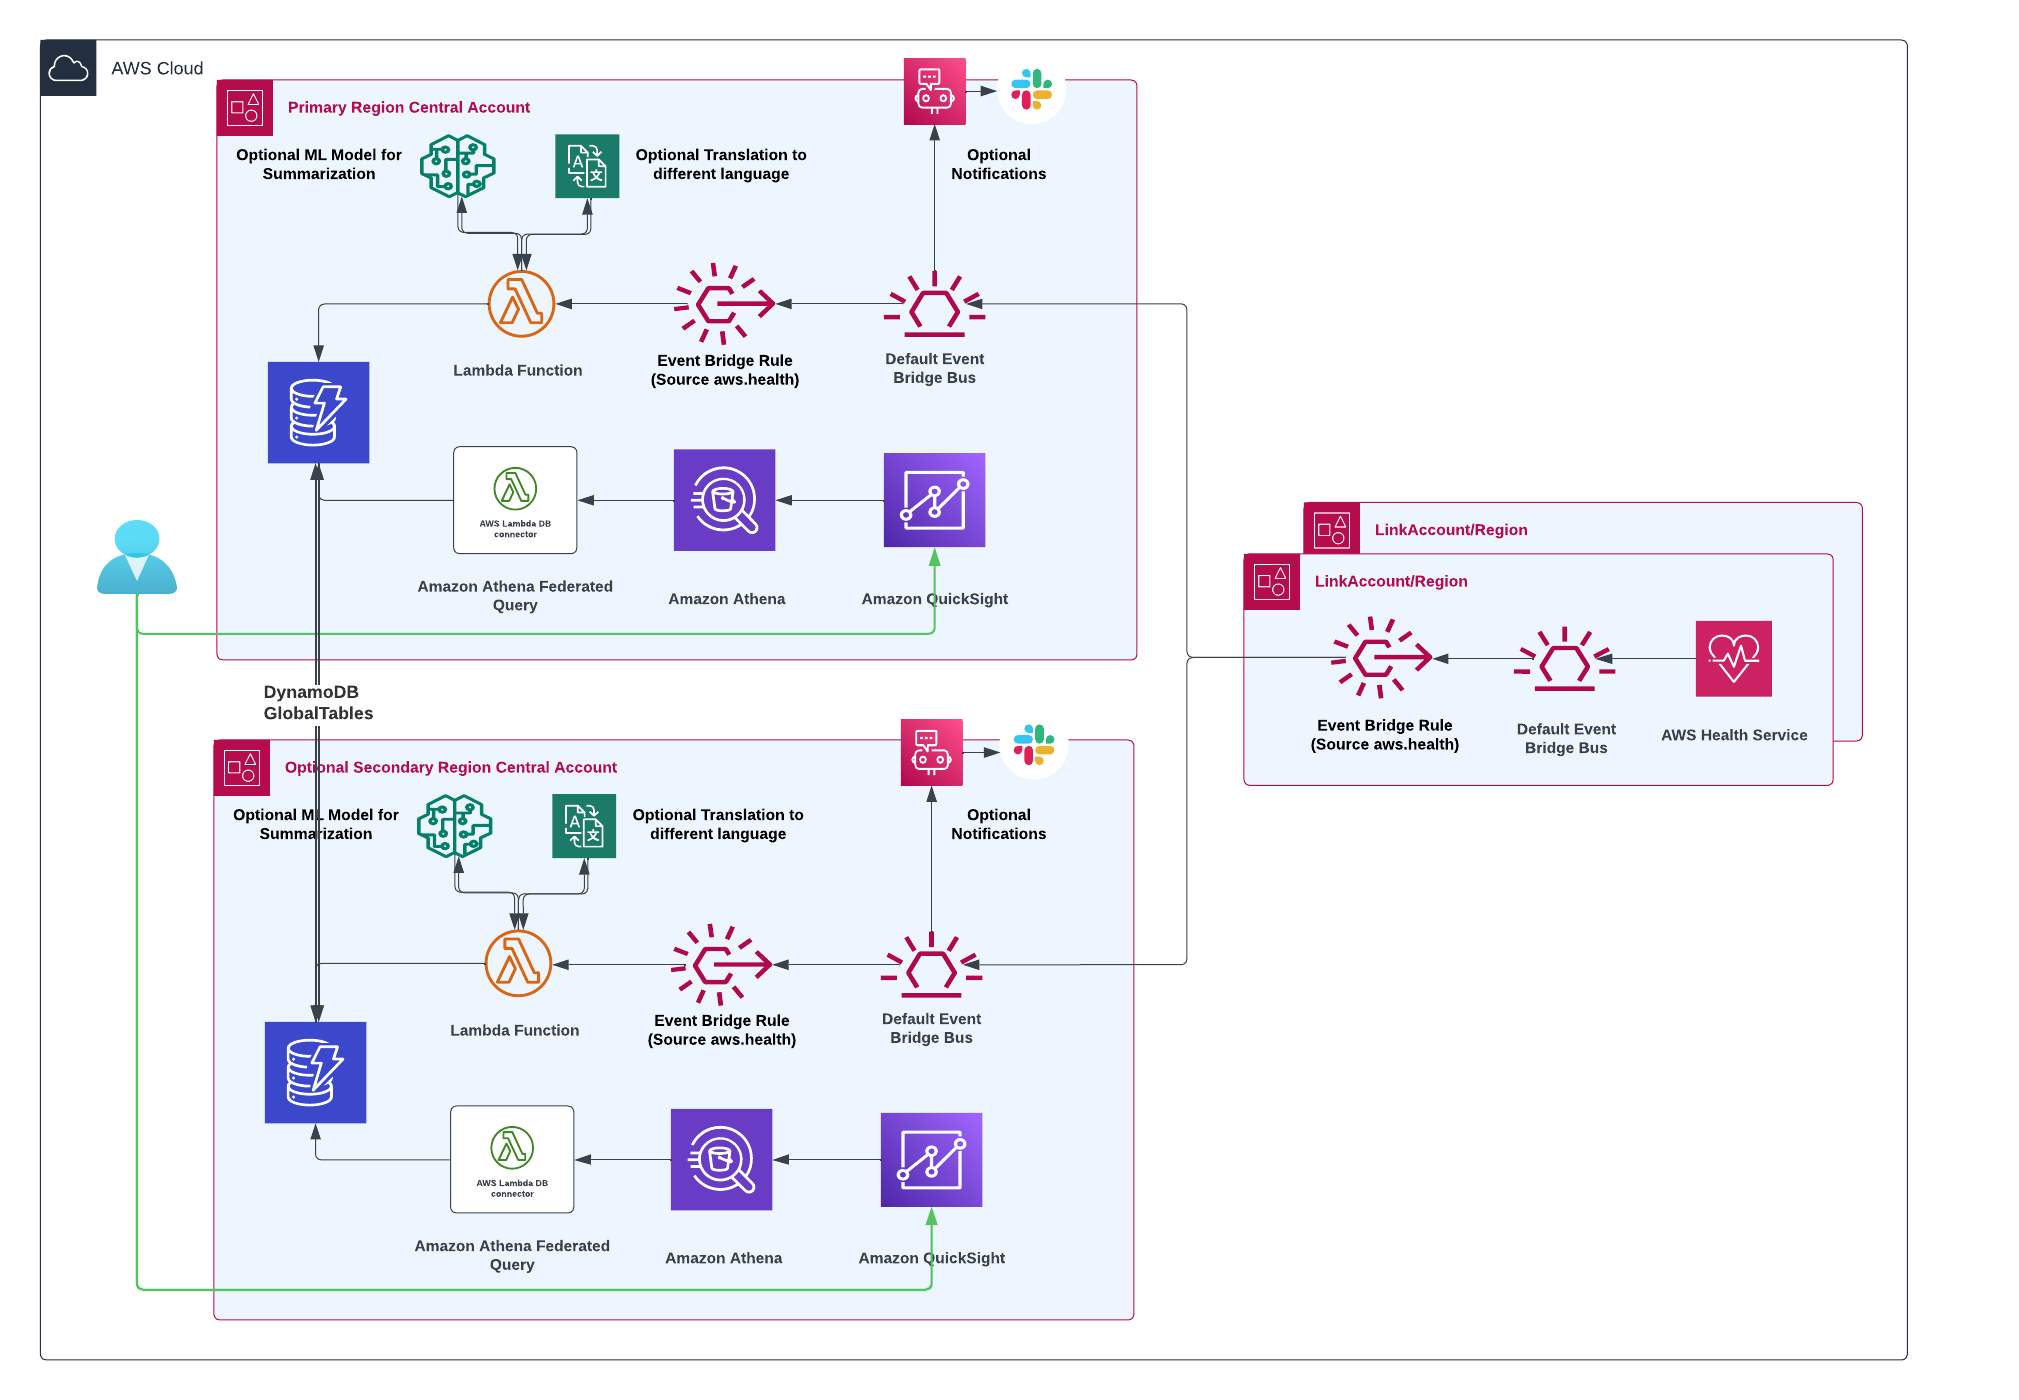
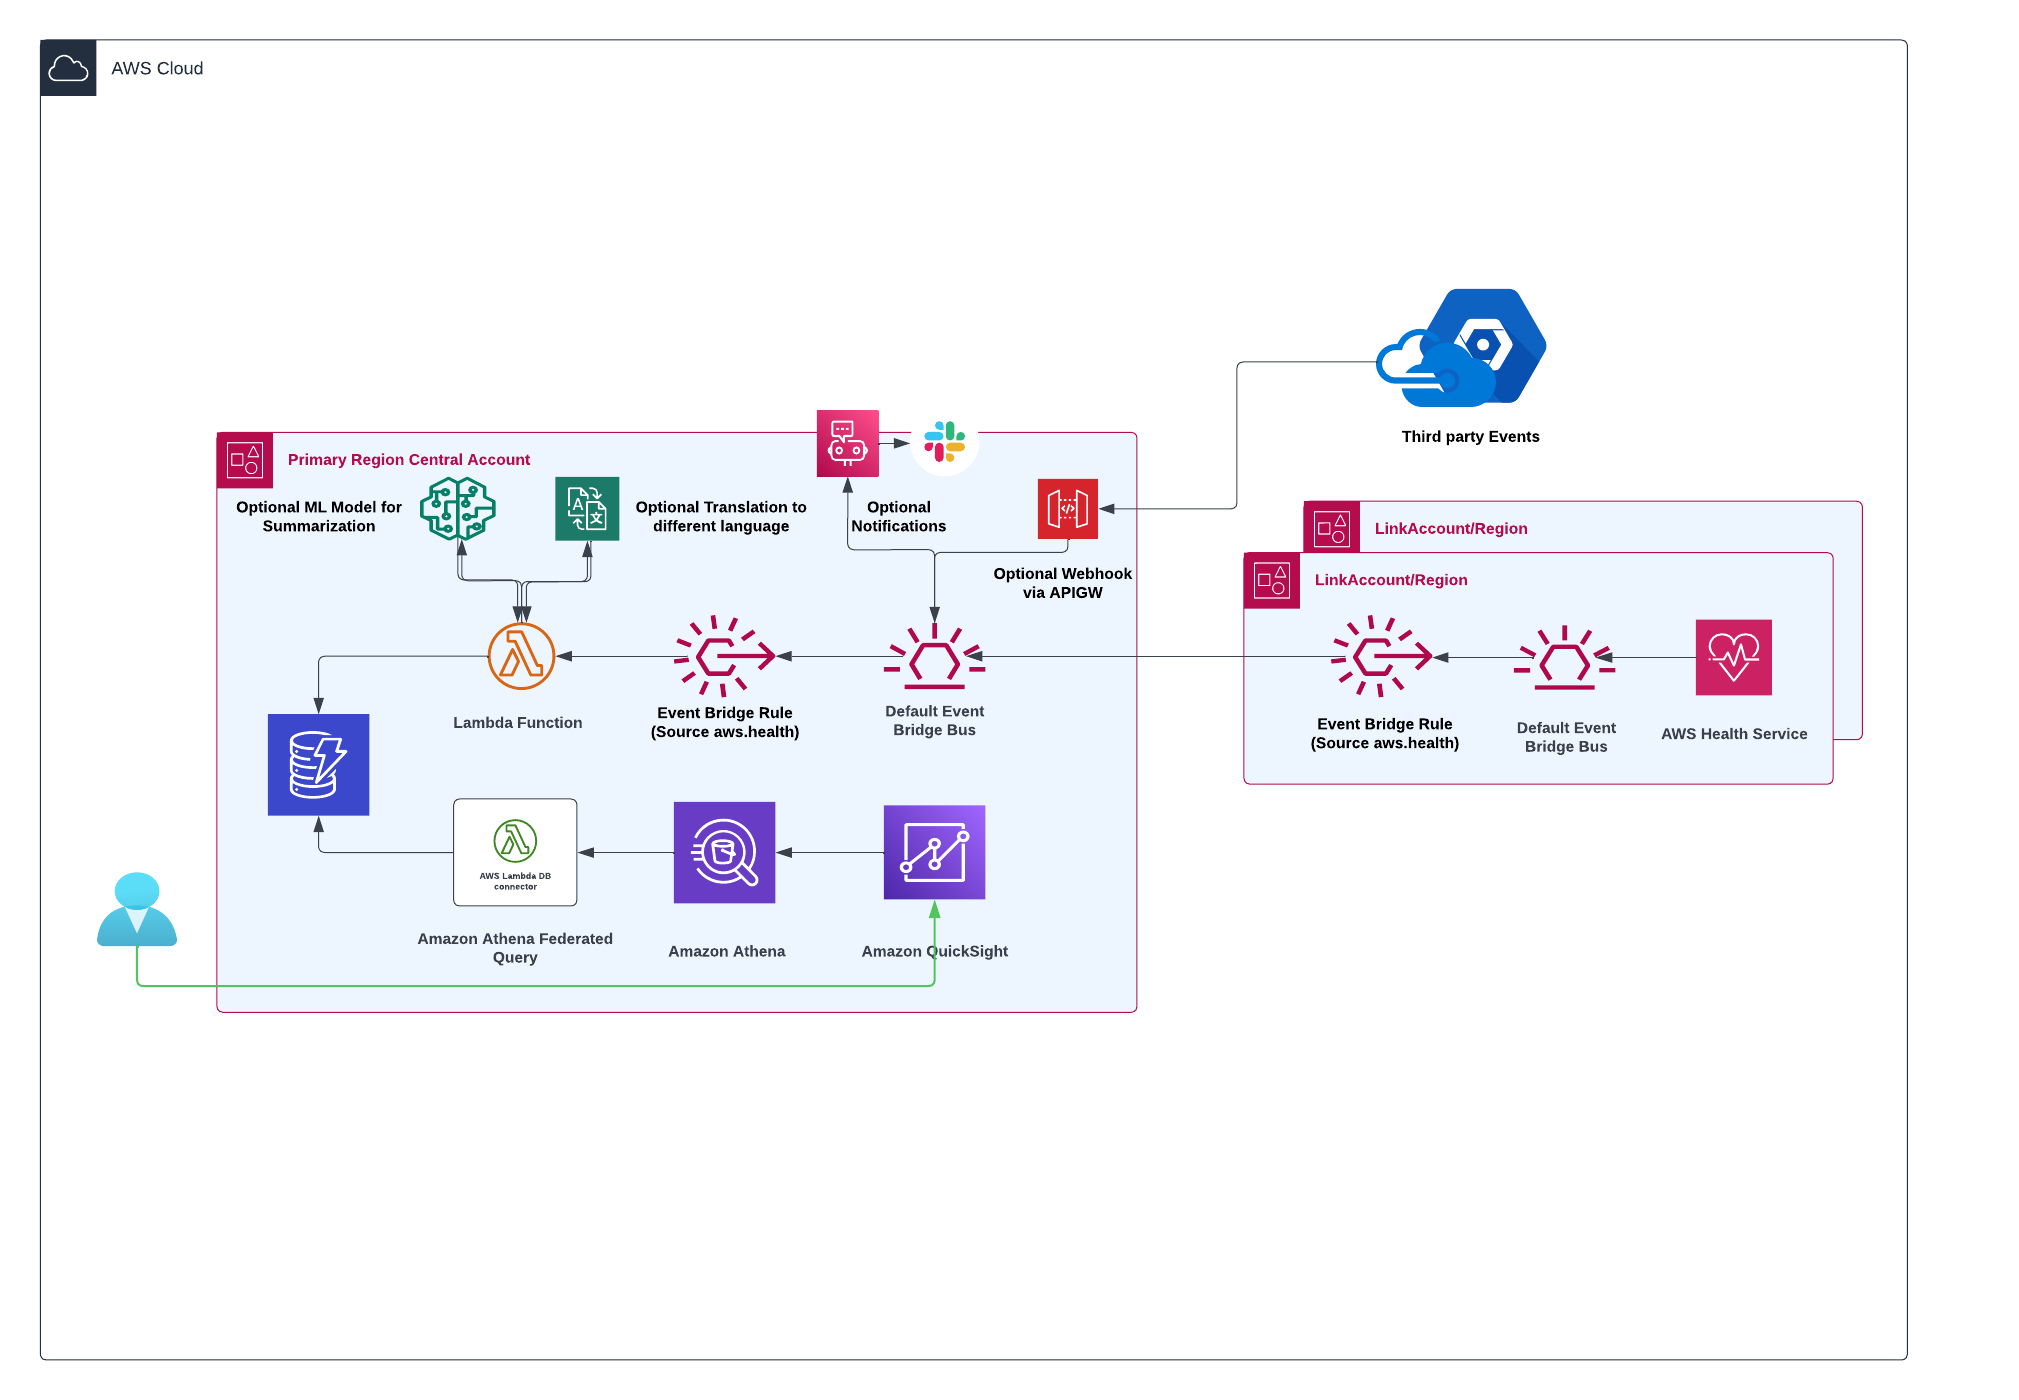
added support for webhook to consume third party events

diff --git a/ControlAccountSetup.py b/ControlAccountSetup.py
@@ -103,7 +103,7 @@ def translate_text(Include_targetLang):
         targetLang = ""
     return targetLang
 
-def create_or_update_cloudformation_stack(region, stack_name, bucket_name, quicksight_user, SageMakerEndpoint, quicksight_service_role, isPrimaryRegion, secondaryRegion):
+def create_or_update_cloudformation_stack(region, stack_name, bucket_name, quicksight_user, SageMakerEndpoint, quicksight_service_role, isPrimaryRegion, secondaryRegion,webhookSelected):
     """
     Create or update the CloudFormation stack based on its status.
     """
@@ -123,8 +123,9 @@ def create_or_update_cloudformation_stack(region, stack_name, bucket_name, quick
                     {"ParameterKey": "SageMakerEndpoint", "ParameterValue": SageMakerEndpoint},
                     {"ParameterKey": "QuicksightServiceRole", "ParameterValue": quicksight_service_role},
                     {"ParameterKey": "targetLang", "ParameterValue": targetLang},
-                    {"ParameterKey": "primaryRegion", "ParameterValue": primaryRegion},
-                    {"ParameterKey": "secondaryRegion", "ParameterValue": secondaryRegion}
+                    {"ParameterKey": "isPrimaryRegion", "ParameterValue": isPrimaryRegion},
+                    {"ParameterKey": "secondaryRegion", "ParameterValue": secondaryRegion},
+                    {"ParameterKey": "webhookSelected", "ParameterValue": webhookSelected}
                 ],
                 Capabilities=["CAPABILITY_NAMED_IAM", "CAPABILITY_AUTO_EXPAND"],
                 DisableRollback=True
@@ -144,7 +145,8 @@ def create_or_update_cloudformation_stack(region, stack_name, bucket_name, quick
                 {"ParameterKey": "QuicksightServiceRole", "ParameterValue": quicksight_service_role},
                 {"ParameterKey": "targetLang", "ParameterValue": targetLang},
                 {"ParameterKey": "isPrimaryRegion", "ParameterValue": isPrimaryRegion},
-                {"ParameterKey": "secondaryRegion", "ParameterValue": secondaryRegion}
+                {"ParameterKey": "secondaryRegion", "ParameterValue": secondaryRegion},
+                {"ParameterKey": "webhookSelected", "ParameterValue": webhookSelected}
             ],
             Capabilities=["CAPABILITY_NAMED_IAM", "CAPABILITY_AUTO_EXPAND"],
             DisableRollback=True
@@ -186,10 +188,17 @@ include_model = input("Do you want to include a SageMaker ML model? (yes/no): ")
 # Get the SageMaker endpoint ARN
 SageMakerEndpoint = get_sagemaker_endpoint_arn(include_model)
 
-# Prompt user to include SageMaker ML model
+# Prompt user to include translation
 Include_targetLang = input("Do you want to Translate Events in different language? (yes/no): ")
 # Get response for translation
 targetLang = translate_text(Include_targetLang)
+
+# Prompt user to include webhook for 3rd party event ingestion
+webhookSelected = input("Do you want setup webhook for 3rd party event ingestion? (yes/no): ")
+# Get response for translation
+if webhookSelected != "yes":
+    webhookSelected = ""
+
 
 # Create or get the S3 bucket
 create_or_get_s3_bucket(bucket_name, region)
@@ -198,8 +207,8 @@ if multiregion == "yes":
 
 # Create or update the CloudFormation stack
 stack_name = f"HealthEventDashboardStack{account_id}-{region}"
-create_or_update_cloudformation_stack(region, stack_name, bucket_name, quicksight_user, SageMakerEndpoint, quicksight_service_role,'Y',secondaryRegion,)
+create_or_update_cloudformation_stack(region, stack_name, bucket_name, quicksight_user, SageMakerEndpoint, quicksight_service_role,'Y',secondaryRegion,webhookSelected)
 
 if multiregion == "yes":
     stack_name = f"HealthEventDashboardStack{account_id}-{secondaryRegion}"
-    create_or_update_cloudformation_stack(secondaryRegion, stack_name, Secondary_bucket_name, quicksight_user, SageMakerEndpoint, quicksight_service_role,'N',secondaryRegion)
+    create_or_update_cloudformation_stack(secondaryRegion, stack_name, Secondary_bucket_name, quicksight_user, SageMakerEndpoint, quicksight_service_role,'N',secondaryRegion,webhookSelected)

diff --git a/README.md b/README.md
@@ -16,9 +16,13 @@ AWS Health events are generated by the AWS Health service in each account and re
 
  ![ALT](img/heidibaseline.jpg)
 
-**MultiRegion with Options:** You have the choice to integrate with Amazon SageMaker for summarization. Additionally, you can utilize AWS translation services to receive events in various languages. You have the option to receive notifications through AWS Chatbot and AWS UserNotification. Furthermore, you can deploy this solution in multiple regions if desired.
+**Optional features:** You have the choice to integrate with Amazon SageMaker for summarization. Additionally, you can utilize AWS translation services to receive events in various languages. You have the option to receive notifications through AWS Chatbot and AWS UserNotification. Furthermore, you can consume third party events if you desire.
 
  ![ALT](img/heidiallOptions.jpg)
+
+ **MultiRegion Deployment:** The sample solution provides you with the flexibility to deploy your central account across multiple regions. In the unlikely event of a region failure, you can seamlessly log in to the secondary region and continue accessing the information you need.
+
+ ![ALT](img/heidimultiregion.jpg)
 
 # Prerequisites
 
@@ -30,6 +34,7 @@ AWS Health events are generated by the AWS Health service in each account and re
 6. **Optional:** To incorporate event summarizations, you have the flexibility to utilize Amazon Sagemaker Language Model (LLM). For this sample, we used huggingface-summarization-bart-large-cnn-samsum model. By providing the model endpoint ARN as user input, you can include this functionality. Please see  ![sagemaker-jumpstart-setup](https://github.com/aws-samples/aws-health-events-insight/blob/main/sagemaker-jumpstart-setup.md) to get started.
 7. **Optional:** To enable notification functionality, AWS Heidi offers support for notifications through the AWS UserNotification service and AWS Chatbot. With this feature, you can receive notifications delivered to platforms such as Slack, Teams, and more. For the setup instructions, please refer to the ![notification](https://github.com/aws-samples/aws-health-events-insight/blob/main/notification.md) to configure notifications."
 8. **Optional:** For multiregion setup, ensure you have quicksight spice capacity in secondary region as well.
+9. **Optional:** You can ingest health events from different service provider. see ![webhook](https://github.com/aws-samples/aws-health-events-insight/blob/main/webhook.md) for more details.
 
 # Deploying the solution
 

diff --git a/webhook.md b/webhook.md
@@ -1,0 +1,59 @@
+# Webhook to consume third party events
+
+This sample solution enables you to ingest third-party events. If you choose to enable the webhook option, CloudFormation (cfn) will deploy an HTTP API on API Gateway and integrate it with EventBridge. You can send events to EventBridge from a third-party source using the following format. You can also bring your own format, you may have to update ingestion lambda in that case.
+
+# Sample event format: You can send event to APIGW in EB format.
+**TIP** Sample is designed to ingest from source name awshealthtest and aws.health. If you want to supply different source for third party, you have to update eventbridge rule to add more source type.
+
+**Warning** To impose access restrictions who can post events to this API, navigate to the API GW console and incorporate an authorizer based on your specific requirements.
+
+```json
+{
+"source":"awshealthtest",
+"DetailType": "awshealthtest", 
+"Detail": {
+"eventArn":"MockEvent-from third party",
+"service":"WORKSPACES",
+"eventScopeCode":"ACCOUNT_SPECIFIC",
[1 lines of base64/hex data omitted]
+"lastUpdatedTime":"Wed, 3 May 2023 13:30:55 GMT",
+"eventRegion":"us-east-1",
+"eventTypeCode":"EC2",
+"eventTypeCategory":"issue",
+"startTime":"Wed, 3 May 2023 11:00:00 GMT",
+"eventDescription":[{
+         "language":"en_US",
+         "latestDescription":"MockEvent\n"
+         }],
+   "affectedEntities":[{
+    "entityValue":"i-mockevent"
+    }]
+        }   
+}
+```
+
+# Sample command to send event
+
+```json
+curl --location --request POST 'invoke url --header 'Content-Type: application/json' --data-raw '{
+"source":"awshealthtest",
+"DetailType": "awshealthtest", 
+"Detail": {
+"eventArn":"MockEvent-from third party -2",
+"service":"WORKSPACES",
+"eventScopeCode":"ACCOUNT_SPECIFIC",
[1 lines of base64/hex data omitted]
+"lastUpdatedTime":"Wed, 3 May 2023 13:30:55 GMT",
+"eventRegion":"us-east-1",
+"eventTypeCode":"EC2",
+"eventTypeCategory":"issue",
+"startTime":"Wed, 3 May 2023 11:00:00 GMT",
+"eventDescription":[{
+         "language":"en_US",
+         "latestDescription":"MockEvent\n"
+         }],
+   "affectedEntities":[{
+    "entityValue":"i-mockevent"
+    }]
+        }   
+}'
